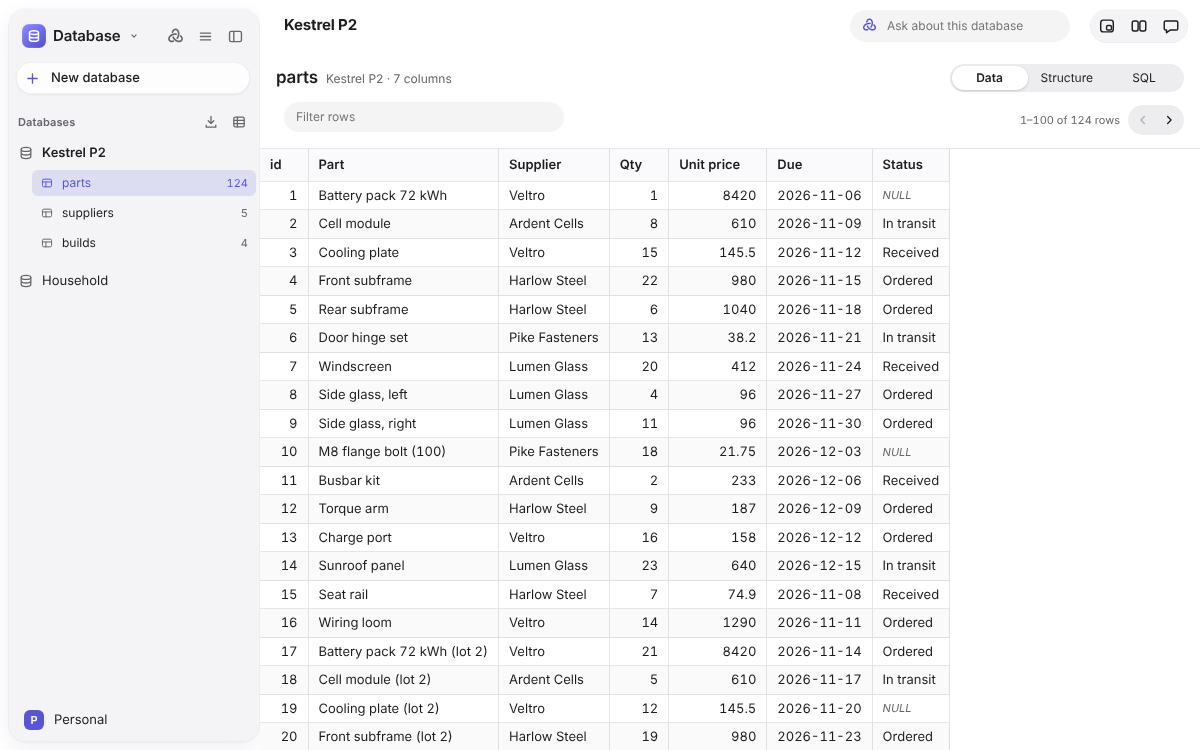
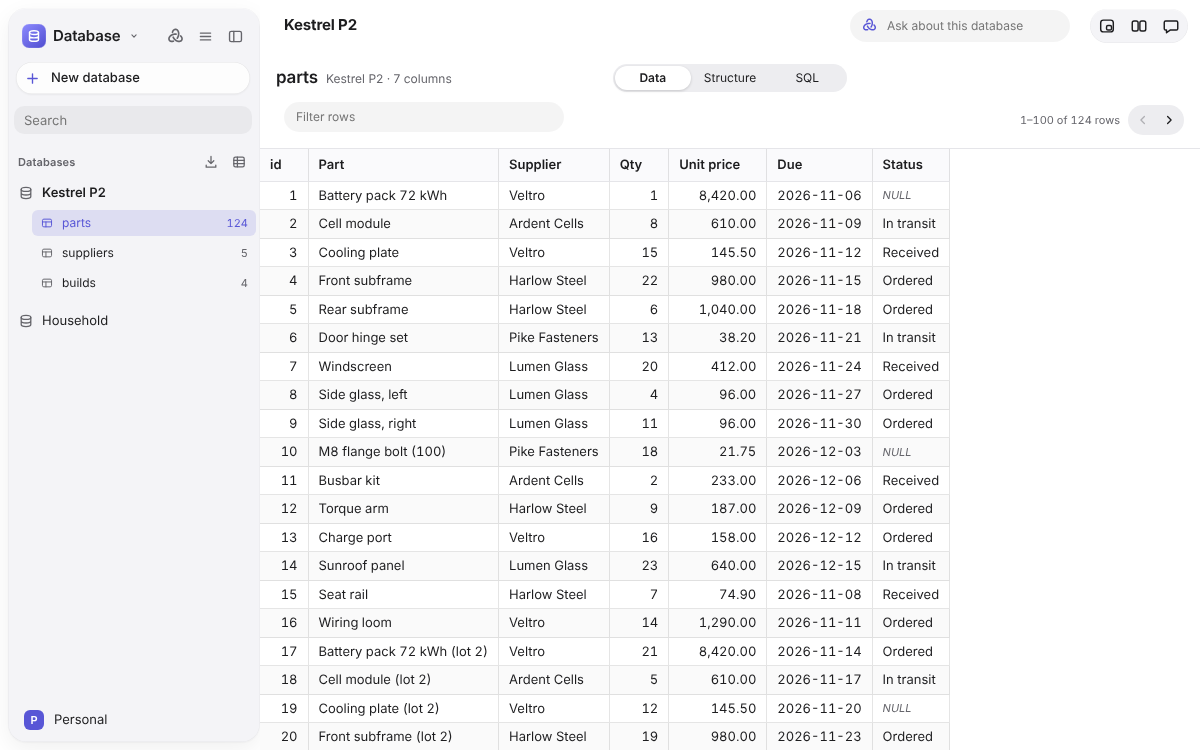
Database: design review fixes
- View switch centred above what it switches; Run's shortcut moves to its tooltip.
- Sidebar Search filters databases and tables; Shift+F10 or the menu key opens a row's menu.
- A column of numbers shows one number of decimals, in the regional format.

Claude-Session: https://claude.ai/code/session_01VRGwo7wHonq3hzTFy319vj

diff --git a/apps/desktop/src/Database.tsx b/apps/desktop/src/Database.tsx
@@ -4,7 +4,7 @@ import { createPortal } from 'react-dom';
 import { onCommand } from './commands';
 import { KEPT_EVENT, keepTurn, keptTurns, turnId } from './ReviewStrip';
 import { isNotesFailure, type DbCell, type DbResult, type WorkbookInfo } from '@mobius/shared';
-import { createdQuery, nextSort, PAGE_ROWS, pageLine, sheetToCsv, showCell, structureQuery, toCsv, type Browse } from './db-view';
+import { columnDecimals, createdQuery, nextSort, PAGE_ROWS, pageLine, sheetToCsv, showCellIn, structureQuery, toCsv, type Browse } from './db-view';
 import type { DatabasesState, DbView } from './useDatabases';
 import { ReviewActions, WhyThis } from './ReviewBar';
 import { EmptyState } from './EmptyState';
@@ -86,9 +86,21 @@ export function DatabaseSidebar({ db, pin, changed }: { db: DatabasesState; pin:
     const r = e.currentTarget.getBoundingClientRect();
     setMenu(fromButton ? { ...at, x: r.left, y: r.bottom + 4 } : { ...at, x: e.clientX, y: e.clientY });
   };
+  /** Shift+F10 or the menu key opens a row's menu, as right-click does. */
+  const menuKey = (e: React.KeyboardEvent, at: Omit<Menu, 'x' | 'y'>) => {
+    if (!((e.shiftKey && e.key === 'F10') || e.key === 'ContextMenu')) return;
+    e.preventDefault();
+    const r = e.currentTarget.getBoundingClientRect();
+    setMenu({ ...at, x: r.left + 12, y: r.bottom + 4 });
+  };
+  const [query, setQuery] = useState('');
+  const q = query.trim().toLowerCase();
+  const hit = (text: string) => !q || text.toLowerCase().includes(q);
+  const shownDbs = db.list.filter((d) => hit(d.name) || d.tables.some((t) => hit(t.name)));
   const rowsIn = (d: string) => db.list.find((x) => x.name === d)?.tables.reduce((n, t) => n + Math.max(0, t.rows), 0) ?? 0;
   return (
     <aside className="side db-side" aria-label="Database sidebar">
+      {db.list.length > 0 && <input className="side-search" type="search" aria-label="Search databases and tables" placeholder="Search" value={query} onChange={(e) => setQuery(e.target.value)} onKeyDown={(e) => { if (e.key === 'Escape') setQuery(''); }} />}
       <div className="side-head">
         <span className="side-title">Databases</span>
         <span className="side-actions">
@@ -122,11 +134,12 @@ export function DatabaseSidebar({ db, pin, changed }: { db: DatabasesState; pin:
         <p className="side-empty">No databases yet.</p>
       )}
       <ul className="db-list" aria-label="Databases">
-        {db.list.map((d) => (
+        {q && shownDbs.length === 0 && <li className="db-none">No matches</li>}
+        {shownDbs.map((d) => (
           <li key={d.name} className="db-item">
             <div className="db-line">
               <button type="button" className="note-row db-row" aria-current={db.open === d.name && !db.table ? 'page' : undefined} data-open={db.open === d.name || undefined} data-changed={changed?.has(d.name) || undefined}
-                onClick={() => void db.choose(d.name)} onContextMenu={(e) => openMenu(e, { db: d.name })}>
+                onClick={() => void db.choose(d.name)} onContextMenu={(e) => openMenu(e, { db: d.name })} onKeyDown={(e) => menuKey(e, { db: d.name })}>
                 <DbIcon />
                 <span className="db-name">{d.name}</span>
               </button>
@@ -136,10 +149,10 @@ export function DatabaseSidebar({ db, pin, changed }: { db: DatabasesState; pin:
               <Confirm label={`Delete “${d.name}”?`} line={`Its ${d.tables.length === 1 ? 'table' : `${d.tables.length} tables`} and ${rowsIn(d.name).toLocaleString()} ${rowsIn(d.name) === 1 ? 'row' : 'rows'} go too. This can’t be undone.`}
                 onCancel={() => setDeleting(null)} onConfirm={() => { setDeleting(null); void db.remove(d.name); }} />
             )}
-            {db.open === d.name && (
+            {(db.open === d.name || (q && d.tables.some((t) => hit(t.name)))) && (
               <ul className="db-tables" aria-label={`Tables in ${d.name}`}>
                 {d.tables.length === 0 && <li className="db-none">No tables yet</li>}
-                {d.tables.map((t) => (
+                {d.tables.filter((t) => hit(t.name) || hit(d.name)).map((t) => (
                   <li key={t.name}>
                     {renaming?.db === d.name && renaming.table === t.name ? (
                       <form className="notes-name db-rename" onSubmit={(e) => { e.preventDefault(); const to = String(new FormData(e.currentTarget).get('name') ?? ''); void db.renameTable(d.name, t.name, to).then((ok) => { if (ok) setRenaming(null); }); }}>
@@ -149,7 +162,7 @@ export function DatabaseSidebar({ db, pin, changed }: { db: DatabasesState; pin:
                     ) : (
                       <div className="db-line">
                         <button type="button" className="db-table" aria-current={db.table === t.name ? 'page' : undefined} title={t.columns.map((c) => `${c.name} ${c.type}`.trim()).join(', ')}
-                          onClick={() => void db.choose(d.name, t.name)} onContextMenu={(e) => openMenu(e, { db: d.name, table: t.name })}>
+                          onClick={() => void db.choose(d.name, t.name)} onContextMenu={(e) => openMenu(e, { db: d.name, table: t.name })} onKeyDown={(e) => menuKey(e, { db: d.name, table: t.name })}>
                           <TableIcon />
                           <span className="db-name">{t.name}</span><span className="db-count">{t.rows < 0 ? '' : t.rows.toLocaleString()}</span>
                         </button>
@@ -204,6 +217,7 @@ function useDbReview(review: { conversation: string } | null | undefined, name: 
 
 /** Rows as a table. With `onSort`, a column's heading sorts by it. */
 function Grid({ columns, rows, sort, onSort }: { columns: string[]; rows: DbCell[][]; sort?: Browse['sort']; onSort?: (column: string) => void }) {
+  const decimals = columns.map((_, j) => columnDecimals(rows, j));
   return (
     <div className="db-grid-wrap">
       <table className="db-grid" aria-label="Rows">
@@ -224,7 +238,7 @@ function Grid({ columns, rows, sort, onSort }: { columns: string[]; rows: DbCell
         </thead>
         <tbody>
           {rows.map((row, i) => (
-            <tr key={i}>{row.map((v, j) => <td key={j} data-kind={v === null ? 'null' : typeof v} title={typeof v === 'string' && v.length > 40 ? v.slice(0, 2000) : undefined}>{showCell(v)}</td>)}</tr>
+            <tr key={i}>{row.map((v, j) => <td key={j} data-kind={v === null ? 'null' : typeof v} title={typeof v === 'string' && v.length > 40 ? v.slice(0, 2000) : undefined}>{showCellIn(v, decimals[j] ?? 0)}</td>)}</tr>
           ))}
         </tbody>
       </table>
@@ -335,8 +349,7 @@ function SqlView({ db, placeholder }: { db: DatabasesState; placeholder: string 
           onKeyDown={(e) => { if (e.key === 'Enter' && (e.metaKey || e.ctrlKey)) { e.preventDefault(); void db.run(); } }}
         />
         <div className="db-actions">
-          <button type="submit" className="btn primary" disabled={!db.sql.trim() || db.running}>{db.running ? 'Running…' : 'Run'}</button>
-          <kbd className="db-key">Ctrl+Enter</kbd>
+          <button type="submit" className="btn primary" title="Run (Ctrl+Enter)" aria-keyshortcuts="Control+Enter" disabled={!db.sql.trim() || db.running}>{db.running ? 'Running…' : 'Run'}</button>
           {db.history.length > 0 && (
             <button type="button" className="btn" aria-haspopup="menu" aria-expanded={earlier !== null} onClick={(e) => { const b = e.currentTarget.getBoundingClientRect(); setEarlier(earlier ? null : { x: b.left, y: b.bottom + 4 }); }}>History</button>
           )}

diff --git a/apps/desktop/src/database.css b/apps/desktop/src/database.css
@@ -27,8 +27,8 @@
 .db-confirm-actions { display: flex; justify-content: flex-end; gap: 6px; }
 @keyframes db-pop { from { opacity: 0; transform: translateY(-4px); } to { opacity: 1; transform: none; } }
 
-/* The head: the table's name and where it is, then the view switch. */
-.db-head { display: flex; flex-wrap: wrap; align-items: center; justify-content: space-between; gap: var(--sp-2) var(--sp-4); padding: 12px var(--sp-4) 10px; }
+/* The head: the table's name and where it is at the start, the view switch centred above what it switches. */
+.db-head { display: grid; grid-template-columns: minmax(0, 1fr) auto minmax(0, 1fr); align-items: center; gap: var(--sp-2) var(--sp-4); padding: 12px var(--sp-4) 10px; }
 .db-title { display: flex; align-items: baseline; gap: var(--sp-2); min-width: 0; }
 .db-title h2 { margin: 0; font-size: var(--fs-xl); font-weight: var(--fw-semibold); letter-spacing: -0.01em; overflow: hidden; text-overflow: ellipsis; white-space: nowrap; }
 .db-sub { color: var(--muted); font-size: var(--fs-sm); white-space: nowrap; }
@@ -39,6 +39,7 @@
 /* The Data view's bar: filter at the start, which rows and the pager at the end. */
 .db-bar { display: flex; align-items: center; gap: var(--sp-2); padding: 0 var(--sp-4) 10px; }
 .db-filter { width: min(280px, 50%); margin: 0; }
+.db-side > .side-search { margin: 0 var(--sp-2) var(--sp-2); }
 .db-bar .db-status { margin: 0; font-variant-numeric: tabular-nums; }
 .db-pager { display: inline-flex; padding: 2px; border-radius: var(--radius-pill); background: var(--soft); }
 .db-pager .strip-btn { width: 26px; min-width: 26px; height: 26px; padding: 0; }
@@ -71,8 +72,7 @@
 .db-made-head h3 { margin: 0; color: var(--muted); font-size: var(--fs-xs); font-weight: 600; text-transform: uppercase; letter-spacing: 0.3px; }
 .db-made pre { margin: 0; padding: 10px 12px; border-radius: 10px; background: var(--field); white-space: pre-wrap; overflow-wrap: anywhere; }
 
-/* SQL: the shortcut as a key, and a line before anything has run. */
-.db-key { padding: 1px 6px; border-radius: 4px; background: var(--field); font: inherit; font-size: var(--fs-xs); }
+/* SQL: a line before anything has run. */
 .db-hint { margin-top: var(--sp-3); }
 
 @media (prefers-reduced-motion: reduce) {

diff --git a/apps/desktop/src/db-view.ts b/apps/desktop/src/db-view.ts
@@ -105,3 +105,21 @@ export const dropTableSql = (table: string): string => `DROP TABLE ${quoteIdent(
 export const structureQuery = (table: string): string => `SELECT name, type, "notnull", dflt_value, pk FROM pragma_table_info(${sqlString(table)})`;
 /** The statement that made the table. */
 export const createdQuery = (table: string): string => `SELECT sql FROM sqlite_master WHERE type = 'table' AND name = ${sqlString(table)}`;
+
+/** The decimals a column of numbers is shown with: as many as its most precise value needs, at most 6; 0 when all are whole. */
+export function columnDecimals(rows: readonly DbCell[][], col: number): number {
+  let most = 0;
+  for (const r of rows) {
+    const v = r[col];
+    if (typeof v !== 'number' || Number.isInteger(v)) continue;
+    const s = String(Math.round(v * 1e6) / 1e6);
+    most = Math.max(most, s.includes('.') ? s.length - s.indexOf('.') - 1 : 0);
+  }
+  return Math.min(most, 6);
+}
+
+/** A cell as shown in a column: numbers in a column with decimals all carry the same number of them, in the region's format. */
+export function showCellIn(v: DbCell, decimals: number): string {
+  if (typeof v === 'number' && decimals > 0) return v.toLocaleString(undefined, { minimumFractionDigits: decimals, maximumFractionDigits: decimals });
+  return showCell(v);
+}

diff --git a/apps/desktop/src/db-view.test.ts b/apps/desktop/src/db-view.test.ts
@@ -1,5 +1,5 @@
 import { describe, expect, it } from 'vitest';
-import { browseQuery, countQuery, FIRST_BROWSE, nextSort, pageLine, renameTableSql, sqlString, sheetToCsv, databaseNameFor, isReading, quoteIdent, showCell, tableNameFor, tableQuery, toCsv } from './db-view';
+import { browseQuery, columnDecimals, showCellIn, countQuery, FIRST_BROWSE, nextSort, pageLine, renameTableSql, sqlString, sheetToCsv, databaseNameFor, isReading, quoteIdent, showCell, tableNameFor, tableQuery, toCsv } from './db-view';
 
 describe('database view', () => {
   it('quotes names and opens a table with its first rows', () => {
@@ -47,5 +47,13 @@ describe('database view', () => {
     expect(pageLine(0, 1, 1, true)).toBe('1 row matches');
     expect(pageLine(1, 100, 1234, false)).toBe('101–200 of 1,234 rows');
     expect(pageLine(0, 0, 0, true)).toBe('No rows match');
+  });
+
+  it('gives a column of numbers one number of decimals', () => {
+    expect(columnDecimals([[8420], [145.5], [21.75], [null]], 0)).toBe(2);
+    expect(columnDecimals([[1], [2]], 0)).toBe(0);
+    expect(showCellIn(8420, 2)).toBe((8420).toLocaleString(undefined, { minimumFractionDigits: 2, maximumFractionDigits: 2 }));
+    expect(showCellIn(12, 0)).toBe('12');
+    expect(showCellIn(null, 2)).toBe('NULL');
   });
 });

diff --git a/docs/apps/write-and-plan.md b/docs/apps/write-and-plan.md
@@ -90,7 +90,8 @@ Sheets, and each table opens with three views:
 - **SQL** runs any statement and shows what it gave. **History** brings back an earlier one, and **Copy as CSV** copies
   the result.
 
-Right-click a table, or use its **⋯** button, to open it, copy all of it as CSV, rename it or delete it. Right-click a
+**Search** at the top of the sidebar finds a database or table by name. Right-click a table, press Shift+F10 on it, or
+use its **⋯** button, to open it, copy all of it as CSV, rename it or delete it. Right-click a
 database to import a CSV file into it or delete it. Deleting asks first, as it can't be undone.
 
 ![The Database app in Mobius](../readme/apps/database.png)
